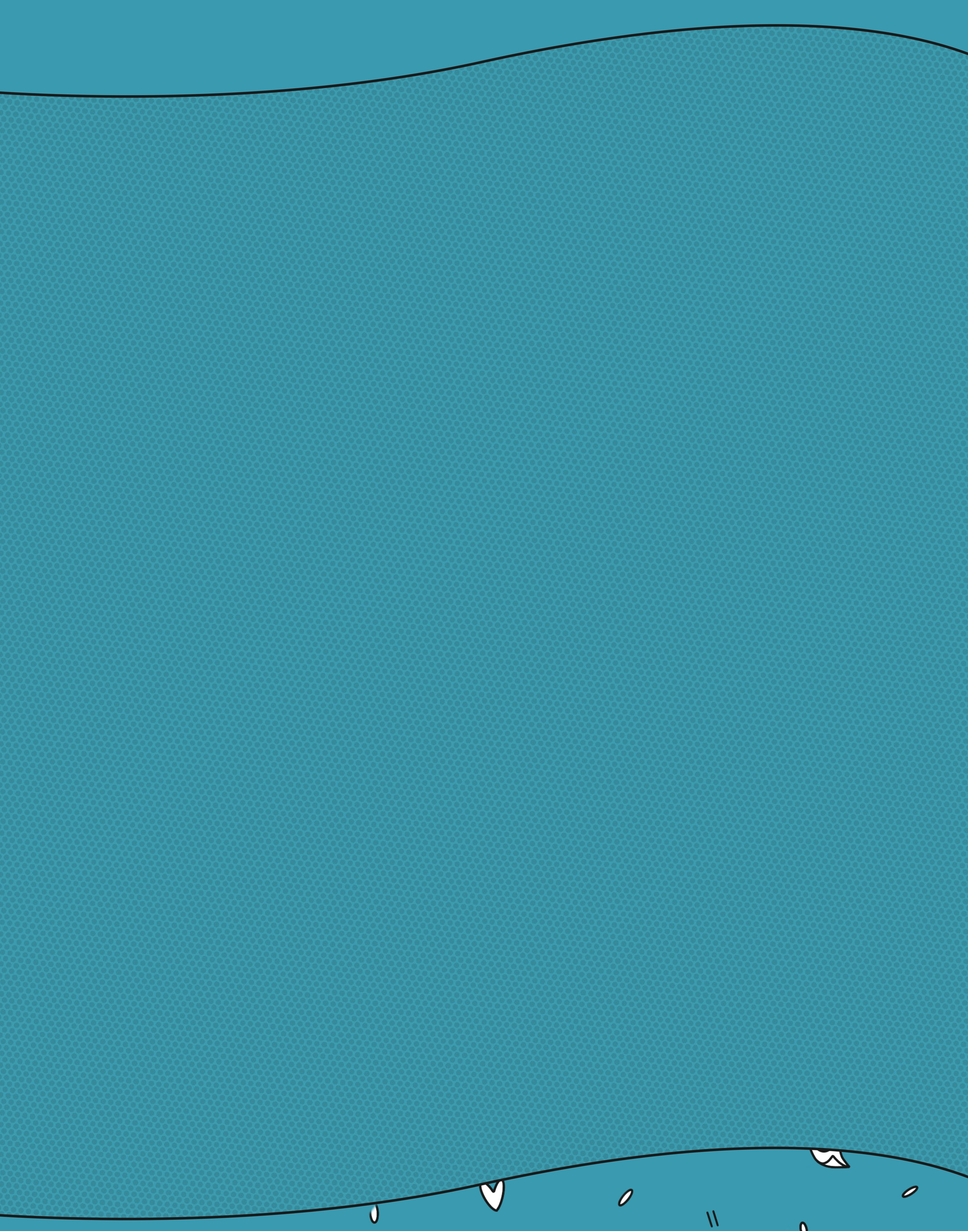
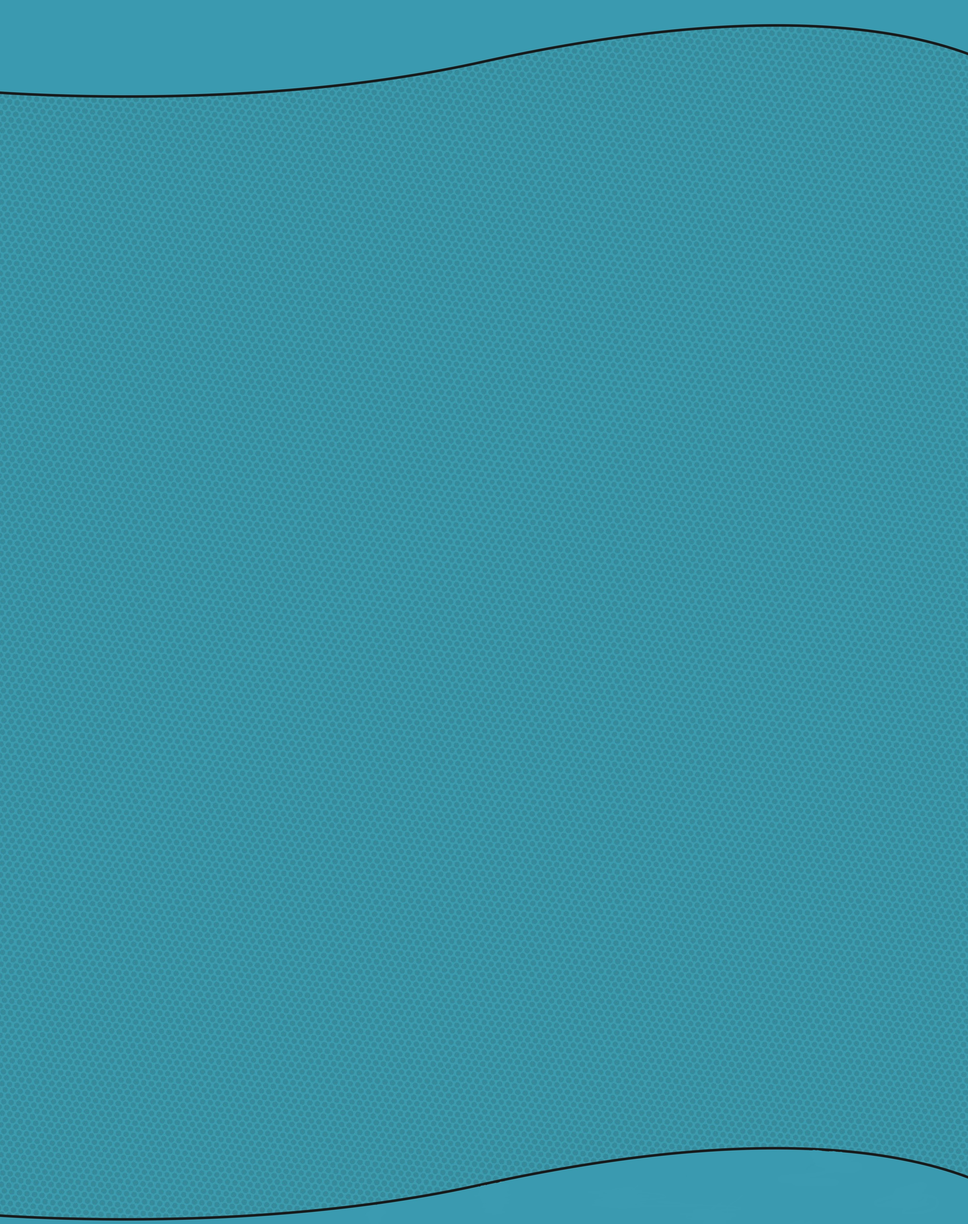
Franja 4 agregada
se agrego la franja 4

Changed region(s): [[0.0, 0.9332, 1.0, 1.0], [0.8064, 0.9954, 0.8374, 1.0]]

diff --git a/styles/index.css b/styles/index.css
@@ -361,9 +361,38 @@ max-width: 100%;
 top: 900px;
 
 }
-
-
 /* fin franja3 */
+
+/* franja 4 */
+#franja4{
+  background-image: url("/wpimages/homepage/franja4.jpg");
+background-size: cover;  
+height: 800px;
+max-width: 100%;
+  }
+  #franja4 h1{
+color: white;
+font-size: 300%;
+font-family: bariol_bold-webfont;
+padding-top: 20%;
+  }
+#franja4 .boton{
+  background-color: #405884;
+  margin-top: 60px;
+  border-style: solid;
+  border-color: #405884;
+  width: 220px;
+  height: 60px;
+  border-radius: 800px;
+  font-family: bariol_regular-webfont;
+color: white;
+font-size: 28px;
+top: 200px;
+}
+
+/* fin de la franja4 */
+
+
 @media (min-width:1024px) and (max-width:1440px){
 /* franja1 */
 .franja1 .imgf{
@@ -486,8 +515,9 @@ height: 700px;
 /* fin carrusel 2 */
 /* fin franja 3*/
 
+ /* franja 4 */
 
-
+/* fin de franja 4 */
   /* hamburger menu */
 
     .menu-btn {

diff --git a/index.html b/index.html
@@ -138,5 +138,16 @@
 <!-- fin de la franja 3 -->
 </section>
 
+<!-- inicio de franaja4 -->
+<section id="franja4">
+
+	<div class="franja4">
+		<center>
+<h1>AYUDÁNOS A VOLAR ALTO</h1>
+<BUTton class="boton">DONAR</BUTton>
+</center>
+</div>
+</section>
+<!-- Fin de franja4 -->
 	</body>
 </html>
